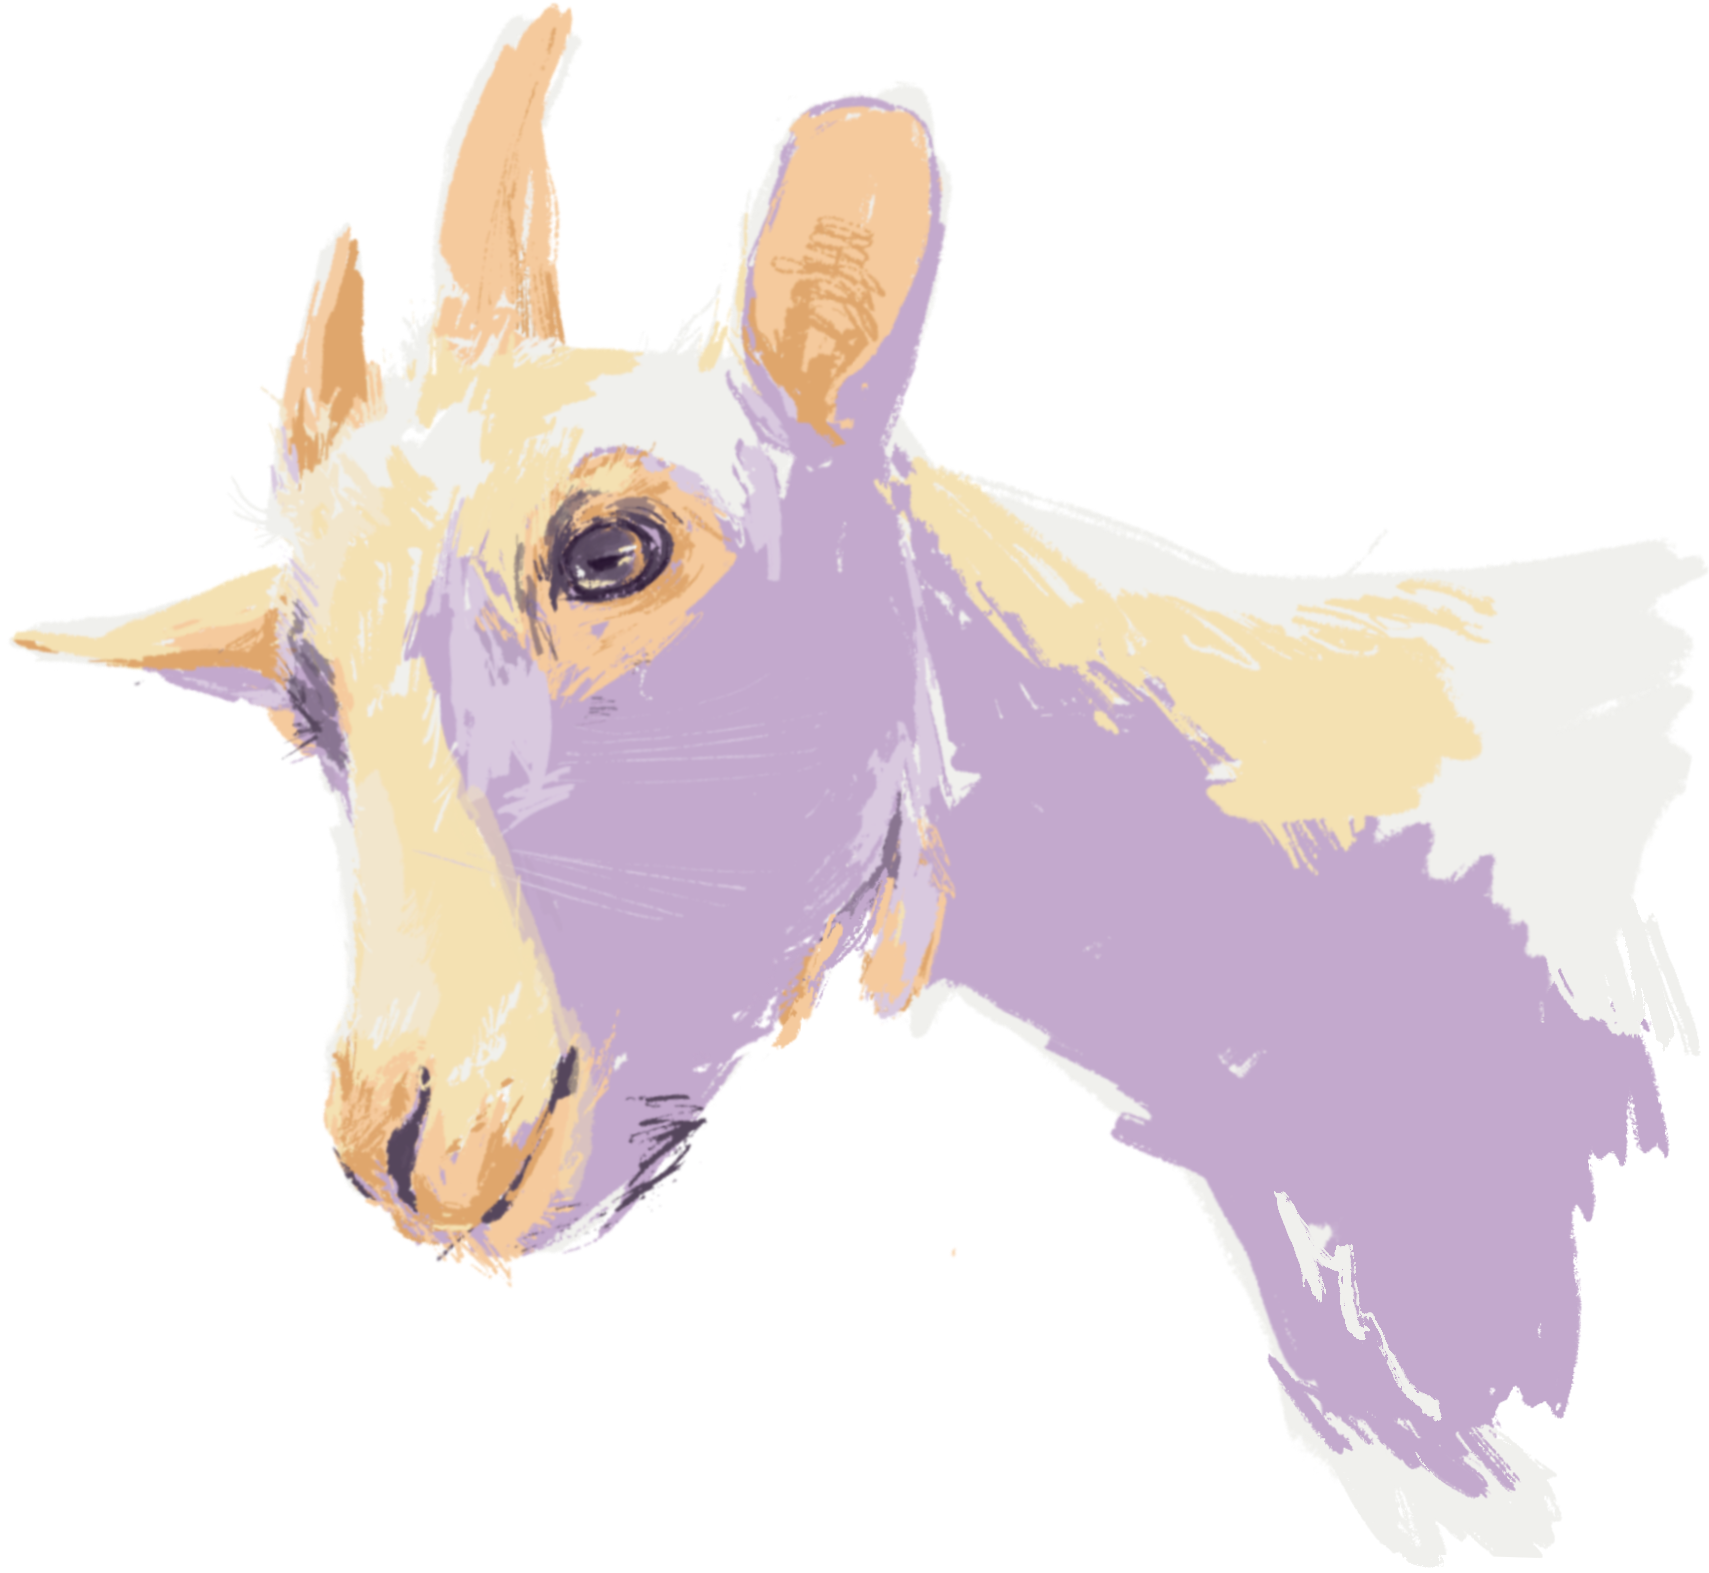
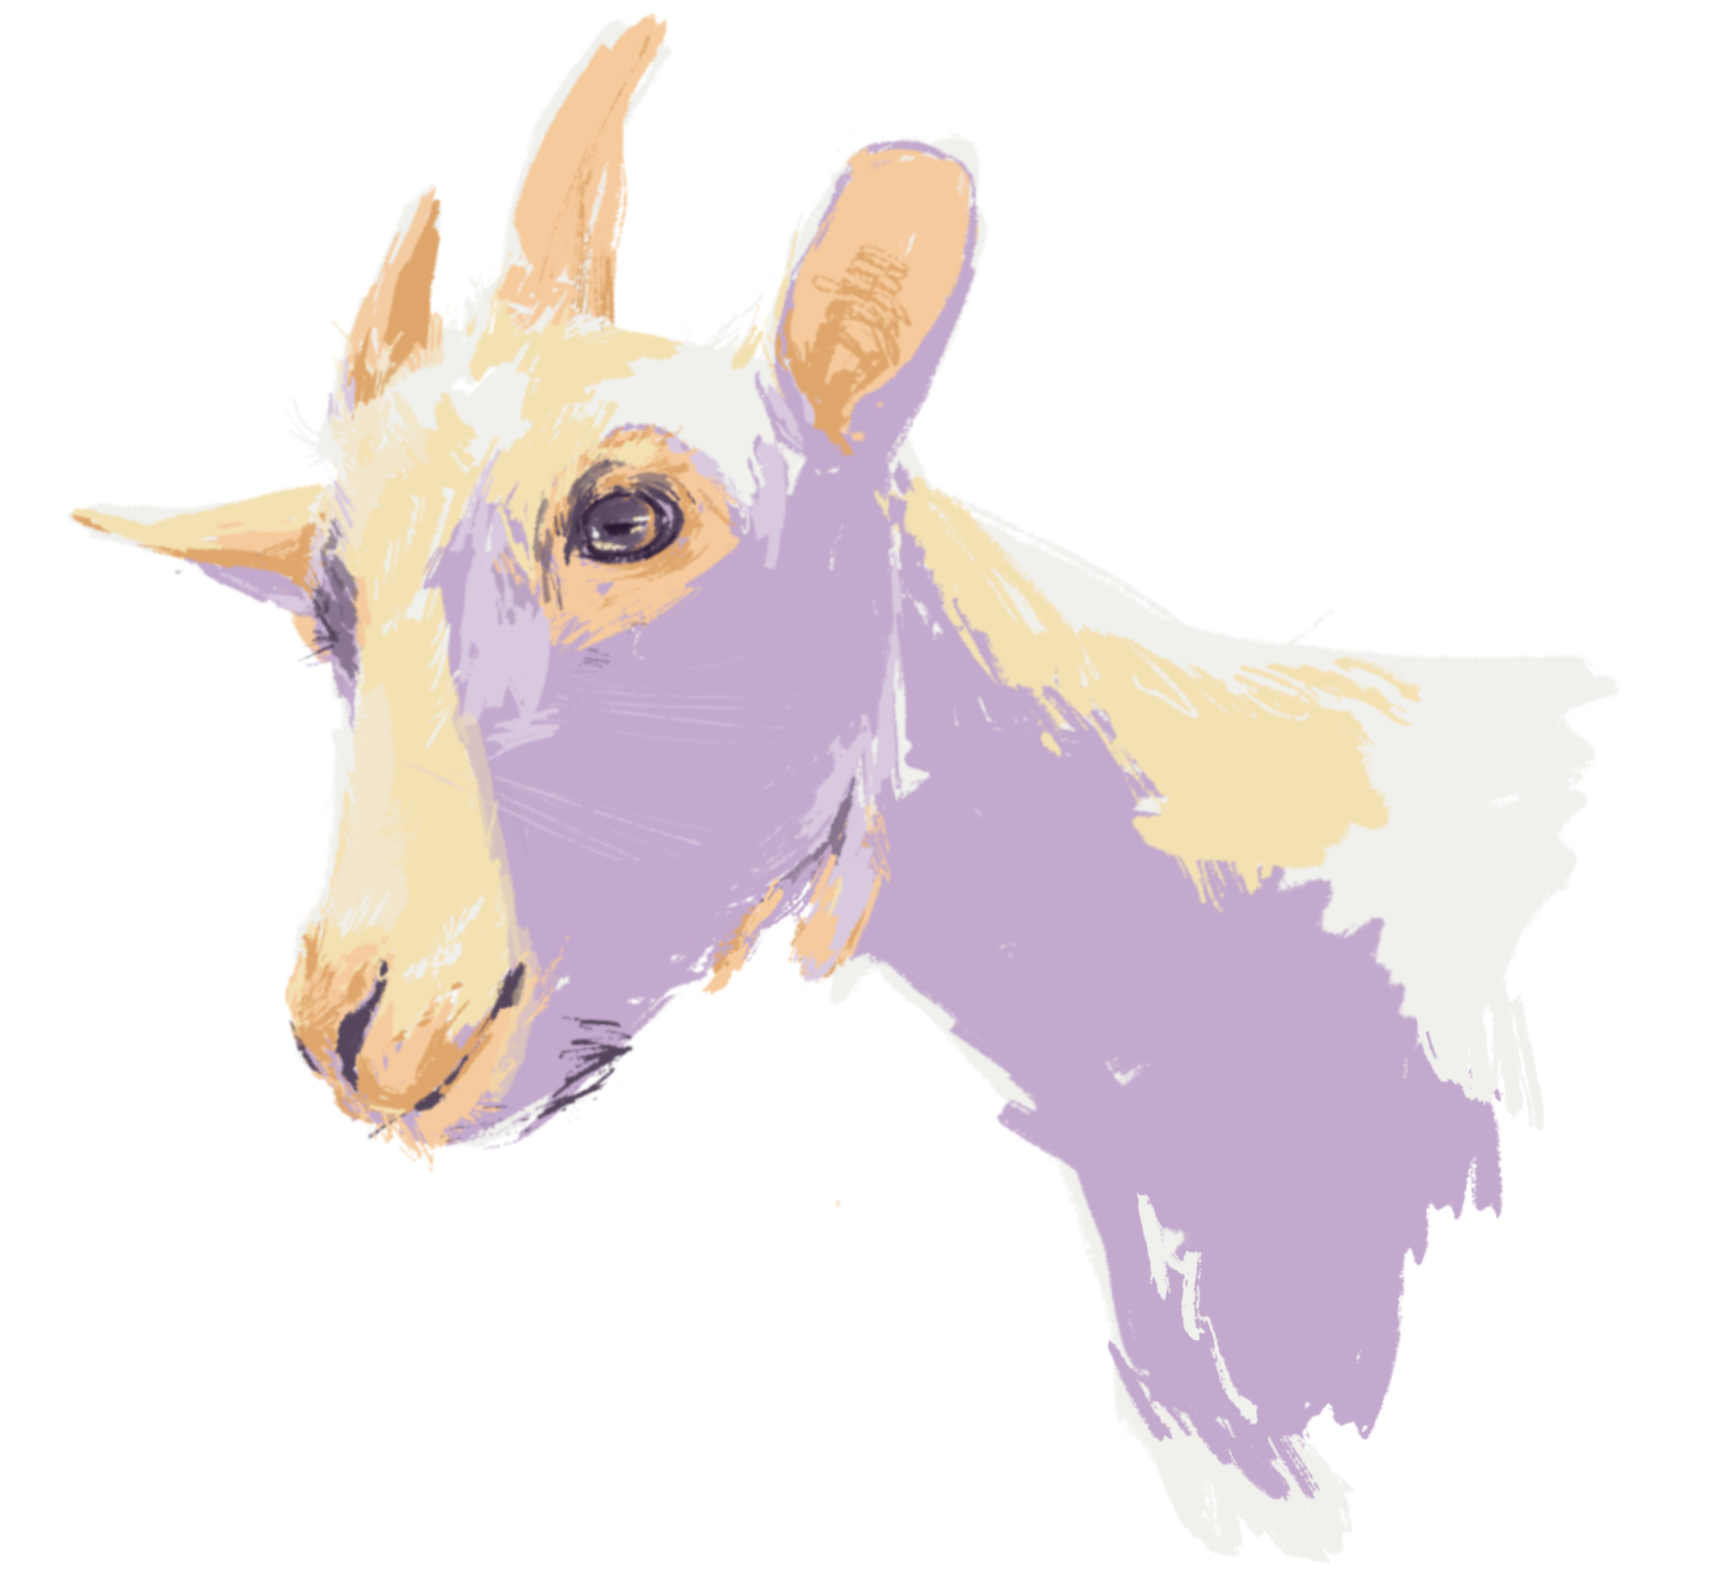
home page animations

Changed region(s): [[0.0, 0.0, 0.9924, 0.9657], [0.7133, 0.6542, 0.7443, 0.6853]]

diff --git a/components/Animations.tsx b/components/Animations.tsx
@@ -1,5 +1,6 @@
 'use client';
 import { motion } from "framer-motion";
+import Image from "next/image";
 
 export function Hello() {
     return (
@@ -14,20 +15,55 @@ export function Hello() {
     )
 }
 
-export function Goat() {
+export function Home() {
     return (
-    <div className="flex items-center absolute mt-20 right-0">
-        <motion.img 
-            src='/goat.png' 
-            className="ml-9 xl:w-[800px] lg:w-[600px] object-cover absolute z-10"
-            initial={{ y:-50 }} 
-            animate={{ y:0 }}
-            whileHover={{ x: -6, y: -10 }}
-            transition={{ duration: 1 }}/>
-        <motion.div
-            className='hidden md:block xl:w-[47vw] md:w-[40vw] xl:h-[55vh] h-[40vh] bg-[#c6edff] rounded-l-[4rem]' 
-            initial={{ y:-20 }} 
-            animate={{ y:0 }}
-            transition={{duration: .8 }}/>
-    </div>)
+    <>
+        <motion.div 
+            initial={{ y:-100, opacity:0 }} 
+            animate={{ y:0, opacity:1 }}
+            transition={{ duration: .8, delay:.2 }}
+            className="absolute z-10 w-[43vw] h-52 mt-[40vh] ml-24 bg-white">
+            <p className="font-playfair text-black text-[96pt] text-center">OLIVIA HU</p>
+        </motion.div>
+        <div className="flex absolute right-0 top-0">
+            <motion.div
+                className="h-[100vh] w-[53vw] z-10"
+                initial={{ y:-50, opacity:0 }} 
+                animate={{ y:0, opacity:1 }}
+                whileHover={{ x: -6, y: -10 }}
+                transition={{ duration: 1 }}>
+                <Image
+                    src='/goat.png' 
+                    alt='goat drawing'
+                    width='1500'
+                    height='1500'
+                    className="object-cover absolute z-10 right-0 mt-16" />
+            </motion.div>
+            <div className="w-[50vw] h-[820px] bg-[#EEE9E2] absolute z-0 right-0  my-[45px] mr-16" />
+        </div>
+
+        <div className="absolute ml-[30vw] mt-[66vh] text-right flex flex-col gap-2 font-inter">
+            <motion.div
+                initial={{ opacity:0, x:20 }} 
+                animate={{ opacity:1, x:0 }}
+                exit={{ opacity:0, y:-20 }}
+                transition={{duration: 0.6, delay:0.8}}>
+                CS Undergraduate
+            </motion.div>
+            <motion.div
+                initial={{ opacity:0, x:20 }} 
+                animate={{ opacity:1, x:0 }}
+                exit={{ opacity:0, y:-20 }}
+                transition={{duration: 0.6, delay:.9}}>
+                at Georgia Tech
+            </motion.div>
+            <motion.div
+                initial={{ opacity:0, x:20 }} 
+                animate={{ opacity:1, x:0 }}
+                exit={{ opacity:0, y:-20 }}
+                transition={{duration: 0.6, delay:1.0}}>
+                aspiring graphics engineer 
+            </motion.div>
+        </div>
+    </>)
 }

diff --git a/app/page.tsx b/app/page.tsx
@@ -1,12 +1,12 @@
-import { Hello, Goat } from "@/components/Animations";
+import { Hello, Home } from "@/components/Animations";
 
-export default function Home() {
+export default function Page() {
 	return (
 		<div className="snap-y snap-mandatory overscroll-y-scroll h-[100vh]">
 			{/* HOME */}
 			<section id='home' className="snap-start" />
 			<div className="flex flex-row h-[1000px] bg-[#F4F4F5]">
-				<Goat />
+				<Home />
 			</div>
 
 			{/* ABOUT */}
